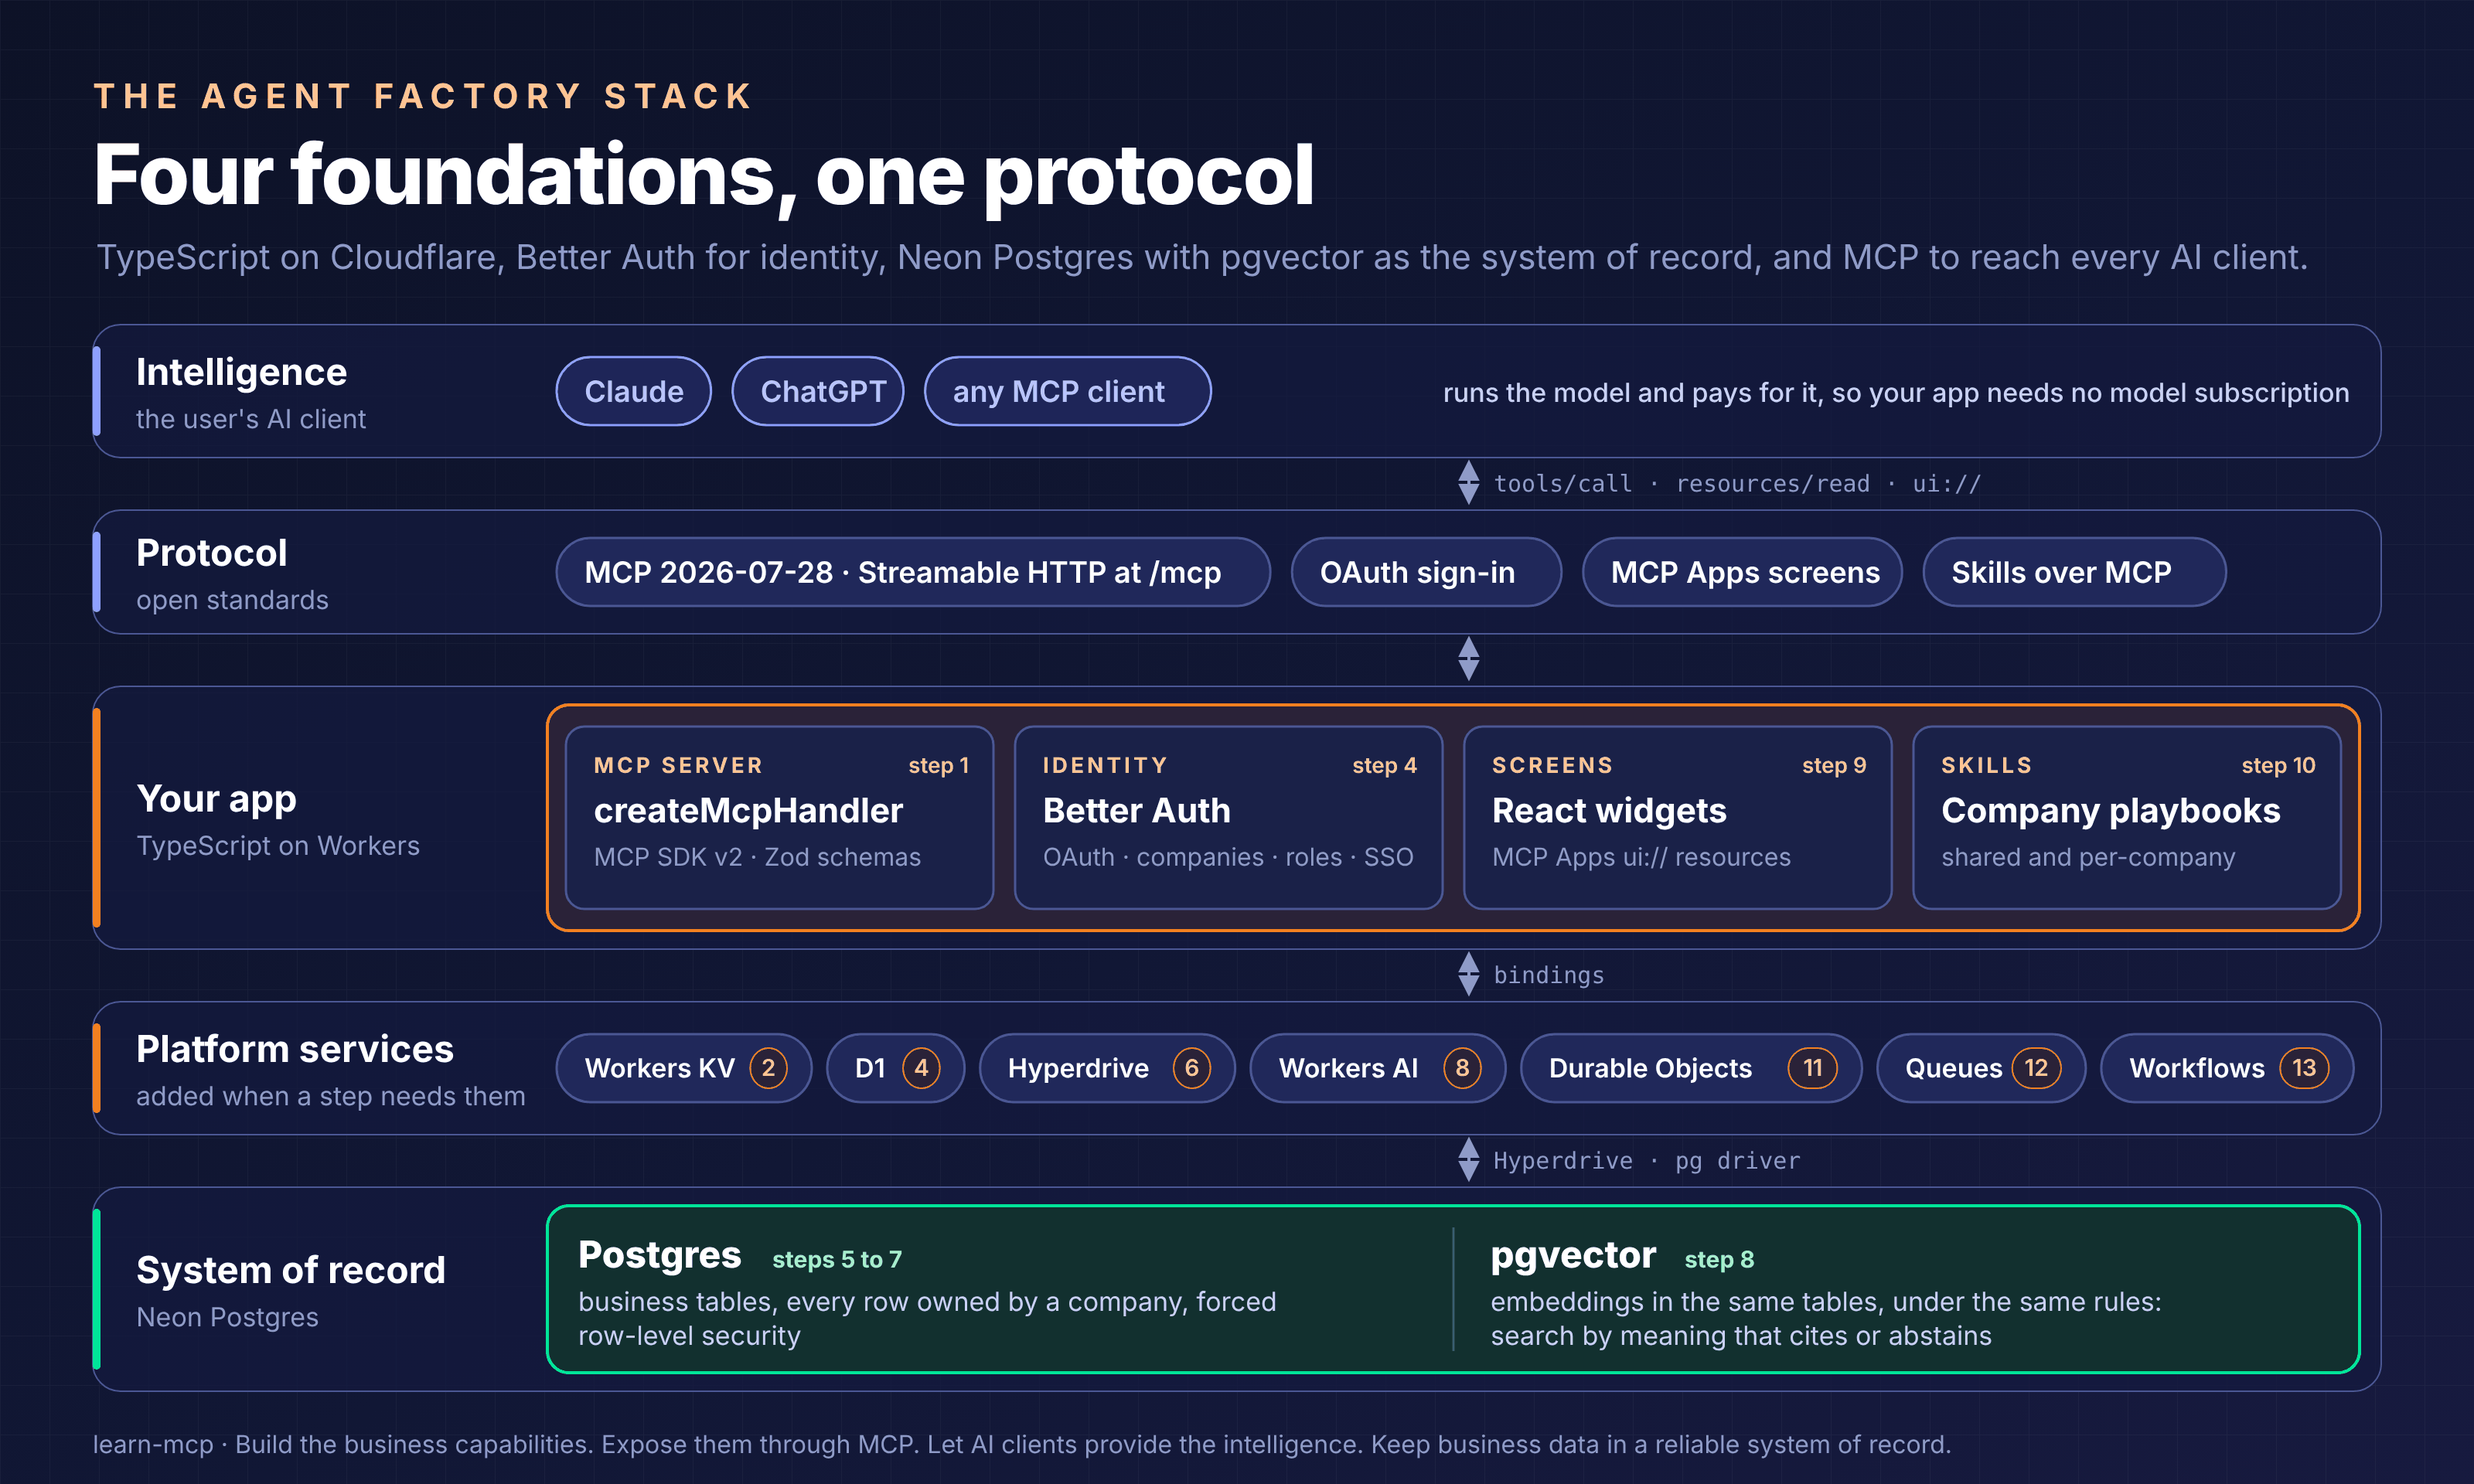
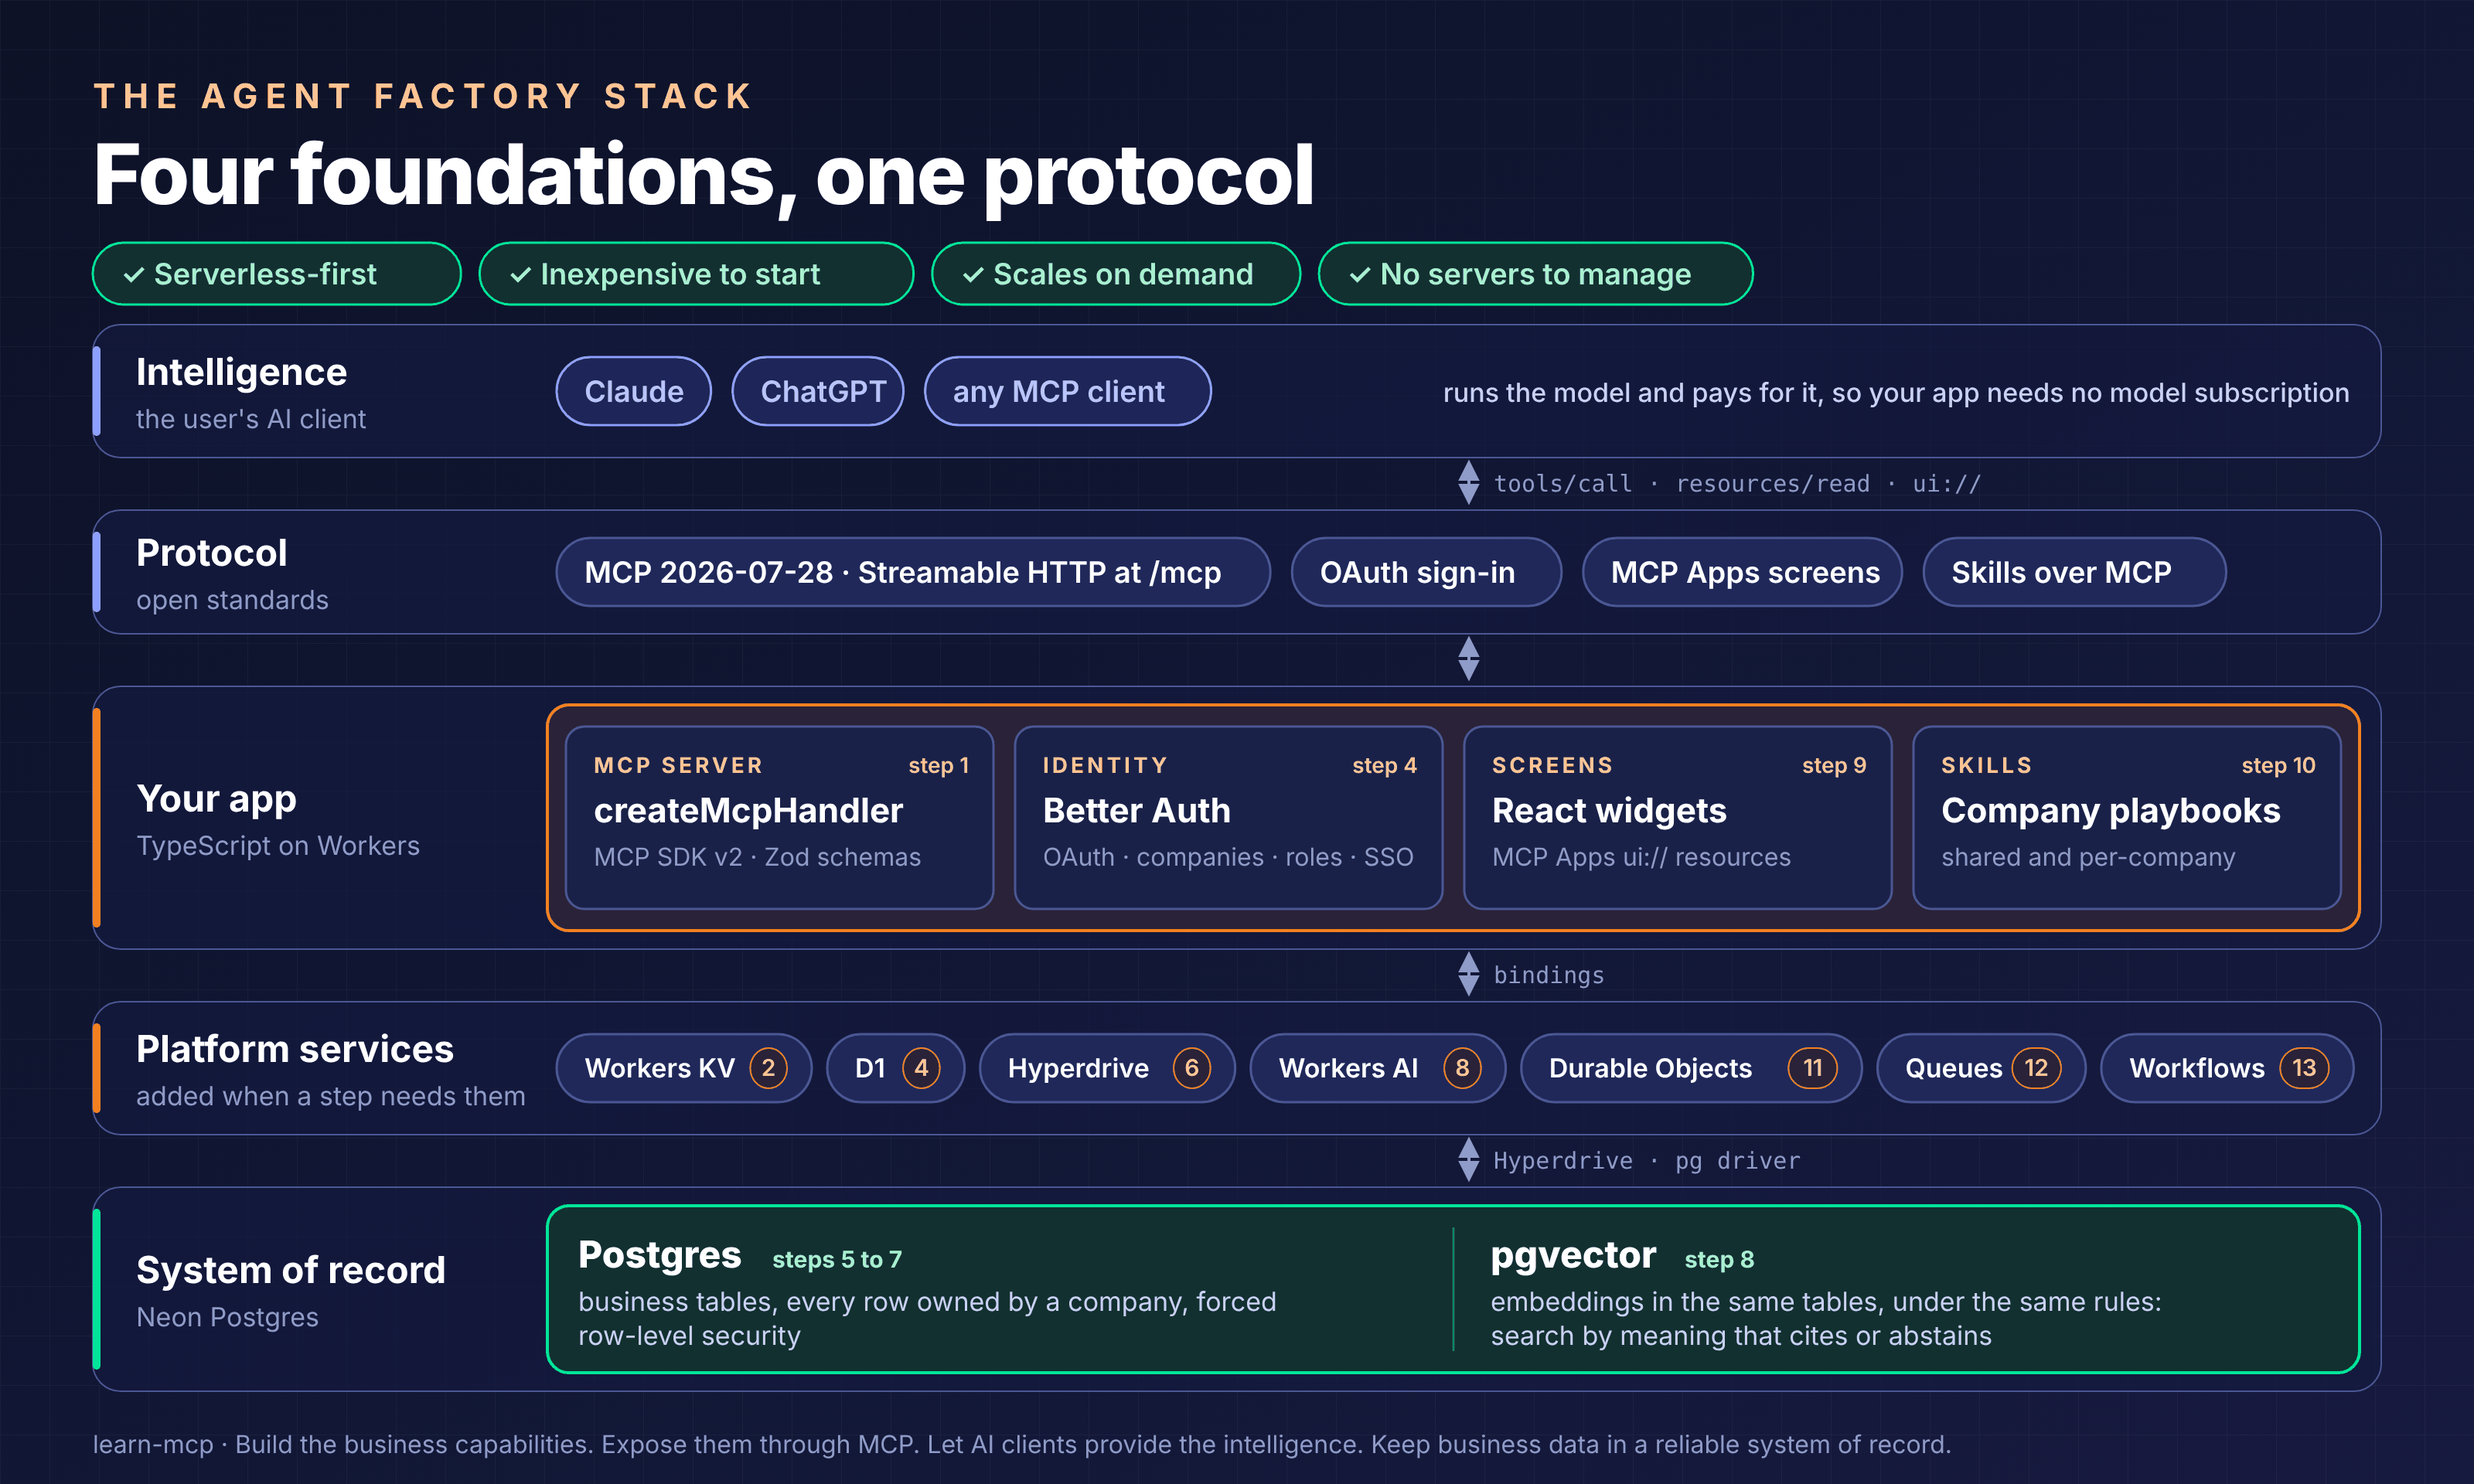
add architectural advantage

Changed region(s): [[0.0312, 0.1562, 0.9375, 0.2188]]

diff --git a/docs/agent-factory-stack.md b/docs/agent-factory-stack.md
@@ -2,7 +2,18 @@
 
 Every step in this bootcamp uses the same small set of technologies. This guide explains why. It names the stack, shows how an MCP app differs from a traditional web app, maps each technology to the steps where you build with it, and is honest about the trade-offs.
 
-**Read this as a recommended default, not an industry standard.** There is no single standard stack for MCP apps yet. This is the stack Panaversity recommends for its Forward Deployed Engineers and teaches in [The AI Agent Factory](https://agentfactory.panaversity.org/), because it lets one person build, secure and run a multi-tenant MCP app for a paying client with no servers to manage. Once you understand why each piece is here, you will also know when a client's situation calls for something else.
+**Read this as a recommended default, not an industry standard.** There is no single standard stack for MCP apps yet. This is the stack Panaversity recommends for its Forward Deployed Engineers and teaches in [The AI Agent Factory](https://agentfactory.panaversity.org/), because it lets one person build, secure and run a multi-tenant MCP app for a paying client on serverless infrastructure: cheap to start, scaling on its own, with no servers to manage. Once you understand why each piece is here, you will also know when a client's situation calls for something else.
+
+## The architectural advantage: serverless-first
+
+The biggest reason for this stack is architectural. **It is serverless-first, inexpensive to start, scales on its own, and asks you to manage no traditional server infrastructure.** For an FDE or a small startup, that means you spend your time on the client's business capabilities, not on running machines.
+
+- **Serverless-first.** Your MCP server is a Cloudflare Worker: code that runs when a request arrives and stops when it is answered. Neon runs Postgres the same way. There is no machine sitting idle that you have to size, start or keep alive, and MCP's stateless 2026-07-28 spec fits this model, because any copy of your server can answer any call.
+- **Inexpensive to start.** Every step of this bootcamp fits the free plans of Cloudflare and Neon, Neon scales to zero when nobody is using it, and the user's AI client pays for the model. You can build, demo and win a first client before you pay for hosting. Costs begin when traffic grows (Workers Paid, a paid Neon plan) or when your own server calls models heavily; the [Costs and cleanup](costs-and-cleanup.md) guide lists every service and its limits, and step 20 teaches you to price those costs in.
+- **Scales on demand.** Workers start a fresh copy for each request, close to the user, so ten users and ten thousand use the same code and the same deploy. The part you still plan for is the database: connection limits, indexes and, for a big tenant, a dedicated Neon database (steps 6 and 7).
+- **No servers to manage.** No virtual machines, operating systems to patch, load balancers, container clusters or database servers to run. `wrangler deploy` publishes your app, and Cloudflare and Neon run the infrastructure underneath it.
+
+**What you still own.** Serverless removes the servers, not the responsibility. Your code, your schema, each company's isolation, your secrets, your security and your bill are still yours, and most of this bootcamp is about getting those right.
 
 ## The guiding idea
 

diff --git a/README.md b/README.md
@@ -80,7 +80,14 @@ Each step's README opens with **🏬 Stockroom's ask**: what the client needs fr
 
 ### Why this stack
 
-These choices form one stack, which we call **the Agent Factory Stack**: **TypeScript** as the language, **Cloudflare** as the infrastructure, **Better Auth** for identity, **Neon Postgres** as the system of record, with **pgvector** inside it for search by meaning, and **MCP** as the way AI clients reach your app. It is serverless, cheap to start, and runs a multi-tenant app for paying clients with no servers for you to manage. It is Panaversity's recommended default for MCP apps, not an industry standard. The idea behind it:
+These choices form one stack, which we call **the Agent Factory Stack**: **TypeScript** as the language, **Cloudflare** as the infrastructure, **Better Auth** for identity, **Neon Postgres** as the system of record, with **pgvector** inside it for search by meaning, and **MCP** as the way AI clients reach your app. Its main advantage is architectural:
+
+- **Serverless-first.** Your server is a Cloudflare Worker that runs per request, and Neon runs Postgres the same way. There is no machine to size or keep running.
+- **Inexpensive to start.** Every step fits Cloudflare's and Neon's free plans, and the user's AI client pays for the model, so you can build and demo for a client before you pay for hosting (see [Costs and cleanup](docs/costs-and-cleanup.md)).
+- **Scales on demand.** The same code serves ten users or ten thousand. The database is the part you plan for, in steps 6 and 7.
+- **No servers to manage.** No virtual machines, patching or load balancers: `wrangler deploy` publishes your app, and Cloudflare and Neon run the infrastructure.
+
+It is Panaversity's recommended default for MCP apps, not an industry standard. The idea behind it:
 
 > **Build the business capabilities. Expose them through MCP. Let AI clients provide the intelligence. Keep business data in a reliable system of record.**
 

diff --git a/step-01-hello-world/README.md b/step-01-hello-world/README.md
@@ -39,7 +39,7 @@ Everything else in this bootcamp builds on a server that is reachable over the i
 - **What it solves.** A local (stdio) server only runs on one person's computer and can't be reached from claude.ai on the web or from ChatGPT. A remote server can, so it can serve paying clients.
 - **Alternatives.** Node.js on a container or VM (Fly.io, Render, Google Cloud Run), or serverless functions on Vercel or AWS Lambda. For tools that must touch a user's own files or apps, a local server packaged as an MCPB bundle. The book and this bootcamp standardize on Cloudflare.
 
-**In the Agent Factory Stack.** Workers and the stateless `createMcpHandler` are the compute layer of the stack, and this is where its TypeScript-on-Cloudflare foundation starts. See [Why these foundations](../docs/agent-factory-stack.md#why-these-foundations) in the stack guide.
+**In the Agent Factory Stack.** Workers and the stateless `createMcpHandler` are the compute layer of the stack: serverless-first, free to start, scaling on their own, with no servers for you to manage. See [The architectural advantage](../docs/agent-factory-stack.md#the-architectural-advantage-serverless-first) in the stack guide.
 
 ## What you will learn
 
